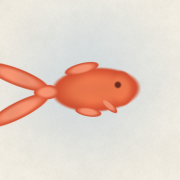
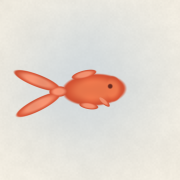
金魚を小さくして水の余白を増やす（参考画像の雰囲気に寄せる）
Ryo「金魚が大きすぎます」。FISH_SCALE 0.80→0.58 に縮小し、和紙＋青い水の
余白を増やして、水の中を泳ぐ小さめの金魚に。縮小で識別性が落ちないか第三者
判定2件で確認 → 180/512px とも「金魚・確信度高・違和感なし」で配信。
sw.js CACHE v18。

Changed region(s): [[0.0, 0.3333, 0.7778, 0.7222]]

diff --git a/sw.js b/sw.js
@@ -1,6 +1,6 @@
 // すみながし Service Worker — オフラインでも遊べるように全アセットをキャッシュ
 // HTML はネットワーク優先（更新が1回の起動で届く）・静的アセットはキャッシュ優先
-const CACHE = "suminagashi-v17";
+const CACHE = "suminagashi-v18";
 const ASSETS = [
   "./",
   "./index.html",

diff --git a/gen_icons.py b/gen_icons.py
@@ -25,7 +25,7 @@ EYE_COL = (0.42, 0.17, 0.13)         # 目（ごく小さな暗色の点）
 # 金魚の配置（横向き・頭は右／尾は左。ほぼ水平にして「耳」化を断つ）
 FISH_C = (0.50, 0.50)
 FISH_ANGLE = -0.05                   # rad（ほぼ水平・頭がほんの少し上）
-FISH_SCALE = 0.80
+FISH_SCALE = 0.58                    # 参考画像のように水の中を泳ぐ小さめサイズ（周りに余白）
 FEATHER = 0.072                      # 縁のにじみ幅（小=くっきり / 大=やわらか）
 
 # ローカル座標（頭=+x 右向き・原点=胴中心）でのパーツ:
